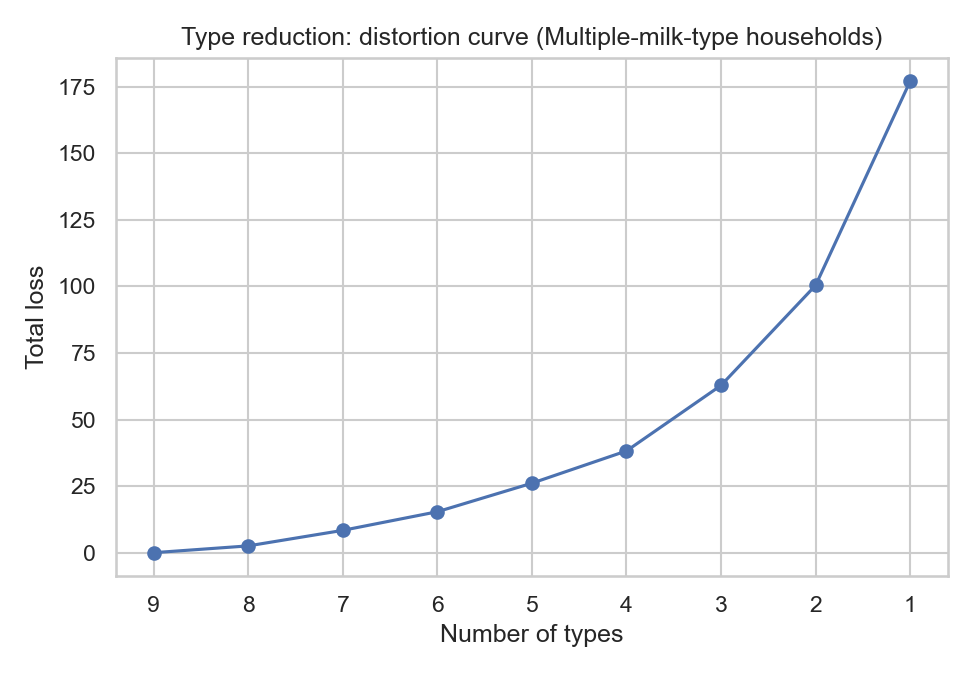
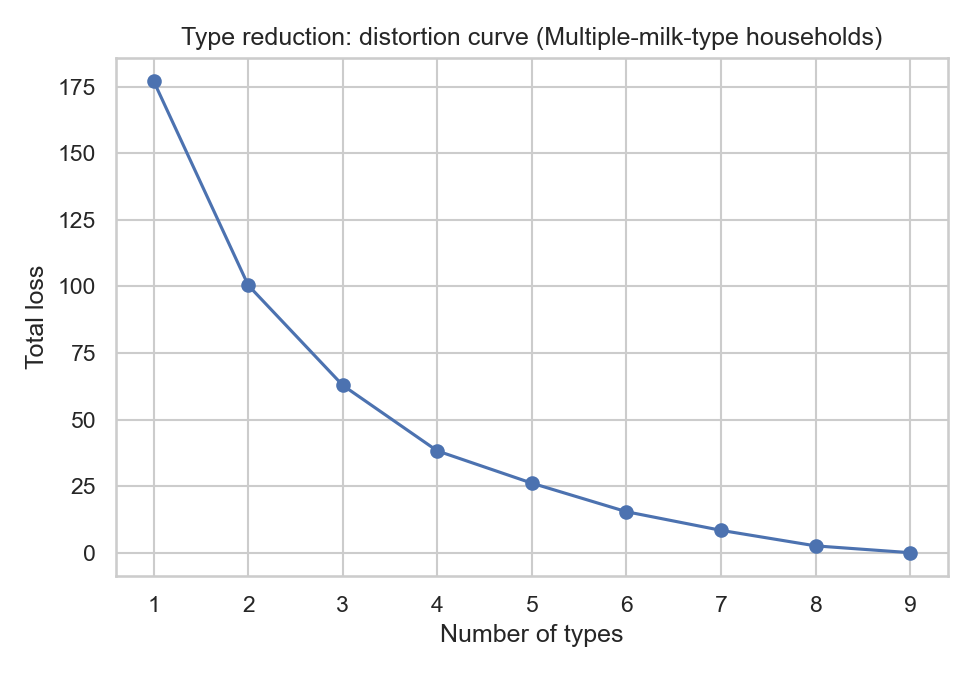
Adding plot of loss tradeoffs

diff --git a/code/runReduction.py b/code/runReduction.py
@@ -10,8 +10,9 @@ Saves, per sample:
 - working_data/milk_reduction_{sample}.{parquet,csv}: partition at every
   number of types (one Int64 column per k, NaN outside the sample);
 - working_data/reduction_loss_{sample}.csv: the loss curve;
-and a distortion-curve plot per sample in
-graphs/reduction_distortion_{sample}.png.
+and per sample, a distortion-curve plot (total loss) and an average-loss
+plot (total loss / households, on the 1 - CCEI scale) in
+graphs/reduction_{distortion,avgloss}_{sample}.png.
 """
 
 #%% Preamble
@@ -68,13 +69,21 @@ sns.set_theme(style='whitegrid')
 for sample, label in [('all', 'All households'),
                       ('multi', 'Multiple-milk-type households')]:
     curve = loss_curves[sample]
-    fig, ax = plt.subplots(figsize=(6.5, 4.5))
-    ax.plot(curve.index, curve['total_loss'], marker='o')
-    ax.set_xlabel('Number of types')
-    ax.set_ylabel('Total loss')
-    ax.set_title(f'Type reduction: distortion curve ({label})')
-    ax.invert_xaxis()
-    fig.tight_layout()
-    fig.savefig(f'graphs/reduction_distortion_{sample}.png', dpi=150)
-    plt.close(fig)
-    print(f"Saved graphs/reduction_distortion_{sample}.png")
+    n_households = partitions[f'group_{sample}'].notna().sum()
+    plots = [
+        ('total_loss', curve['total_loss'], 'Total loss',
+         f'reduction_distortion_{sample}.png', 'distortion curve'),
+        ('avg_loss', curve['total_loss'] / n_households,
+         'Average loss per household',
+         f'reduction_avgloss_{sample}.png', 'average loss'),
+    ]
+    for _, values, ylabel, filename, kind in plots:
+        fig, ax = plt.subplots(figsize=(6.5, 4.5))
+        ax.plot(curve.index, values, marker='o')
+        ax.set_xlabel('Number of types')
+        ax.set_ylabel(ylabel)
+        ax.set_title(f'Type reduction: {kind} ({label})')
+        fig.tight_layout()
+        fig.savefig(f'graphs/{filename}', dpi=150)
+        plt.close(fig)
+        print(f"Saved graphs/{filename}")